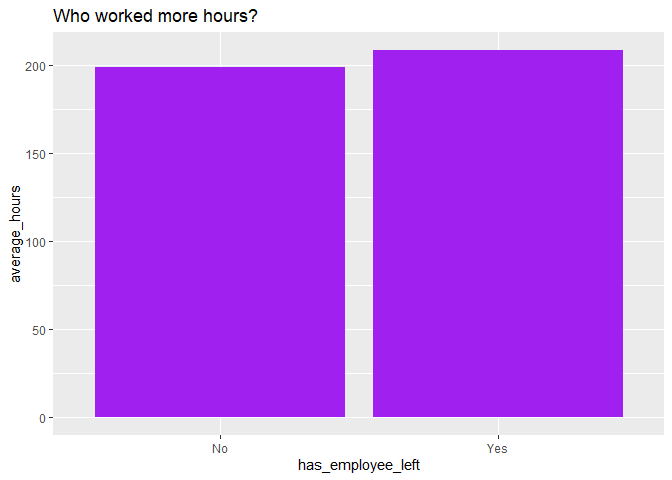
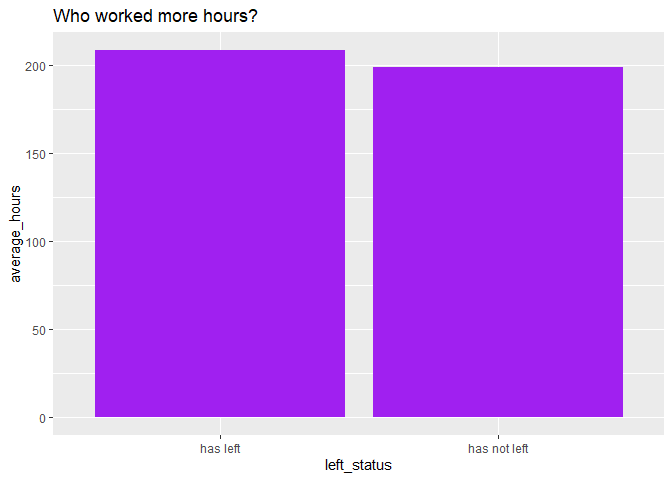
updated md file

diff --git a/Turnover_Report.md b/Turnover_Report.md
@@ -66,8 +66,7 @@ Tracy had these questions:
 
 -   What is the turnover rate from the dataset being examined?
 
--   Why might an employee may leave, and what characterises those who
-    stay?
+-   Why might an employee leave, and what characterises those who stay?
 
 -   Which department was worst hit by the turnover and why?
 
@@ -632,7 +631,6 @@ to those who haven’t.
 emp_prop <- employee_profile_renamed %>%
   group_by(has_employee_left = as.factor(recode(left, '0' = 'No', '1' = 'Yes'))) %>%
   summarise(count_left = n())
-
 ggplot(emp_prop, aes(x = "", y = count_left, fill = has_employee_left)) +
   geom_col() + 
   labs(title= "Proportion of employees who have left and those still at the company") +
@@ -642,7 +640,7 @@ ggplot(emp_prop, aes(x = "", y = count_left, fill = has_employee_left)) +
 
 ![](Turnover_Report_files/figure-gfm/unnamed-chunk-15-1.png)<!-- -->
 
-#### 2. Why might an employee may leave, and what characterises those who stay?
+#### 2. Why might an employee leave, and what characterises those who stay?
 
 I put two questions in one here because it will be difficult to consider
 the conditions that made terminates leave without a corresponding look
@@ -752,8 +750,7 @@ satisfaction_count = employee_profile_renamed %>%
   group_by(has_employee_left = as.factor(recode(left, '0' = 'No', '1' = 'Yes'))) %>%
   summarise(number = n())
 
-sat_prop_left <- (satisfaction_count$number/emp_prop$count_left) *100  #remember emp_prop from the pie chart
-  
+sat_prop_left <- (satisfaction_count$number/emp_prop$count_left) *100  # remember `count_left` from emp_prop in the pie chart code chunk, which was the total count for each group of employees; still at the company or have left.
   
 as_tibble(sat_prop_left)
 ```
@@ -764,27 +761,27 @@ as_tibble(sat_prop_left)
     ## 1  62.2
     ## 2  27.4
 
-We see here that while over 60% of retainees are satisfied, only about
-27% of those who left were satisfied on the job.
+We see here that while over 60% of all retainees are satisfied, only
+about 27% of those who left were satisfied on the job.
 
 **Were employees working longer hours?**
 
 ``` r
 hours <- employee_profile_renamed %>% 
-  group_by(has_employee_left = as.factor(recode(left, '0' = 'No', '1' = 'Yes'))) %>%
+  group_by(left_status = as.factor(recode(left, '0' = 'has not left', '1' = 'has left'))) %>%
   summarise(average_hours = mean(mean_monthly_hours))
 
 hours
 ```
 
     ## # A tibble: 2 × 2
-    ##   has_employee_left average_hours
-    ##   <fct>                     <dbl>
-    ## 1 No                         199.
-    ## 2 Yes                        208.
+    ##   left_status  average_hours
+    ##   <fct>                <dbl>
+    ## 1 has left              208.
+    ## 2 has not left          199.
 
 ``` r
-ggplot(hours, aes(x = has_employee_left, y = average_hours)) + 
+ggplot(hours, aes(x = left_status, y = average_hours)) + 
   geom_bar(stat = 'identity', fill = 'purple') +
   labs(title="Who worked more hours?") 
 ```
